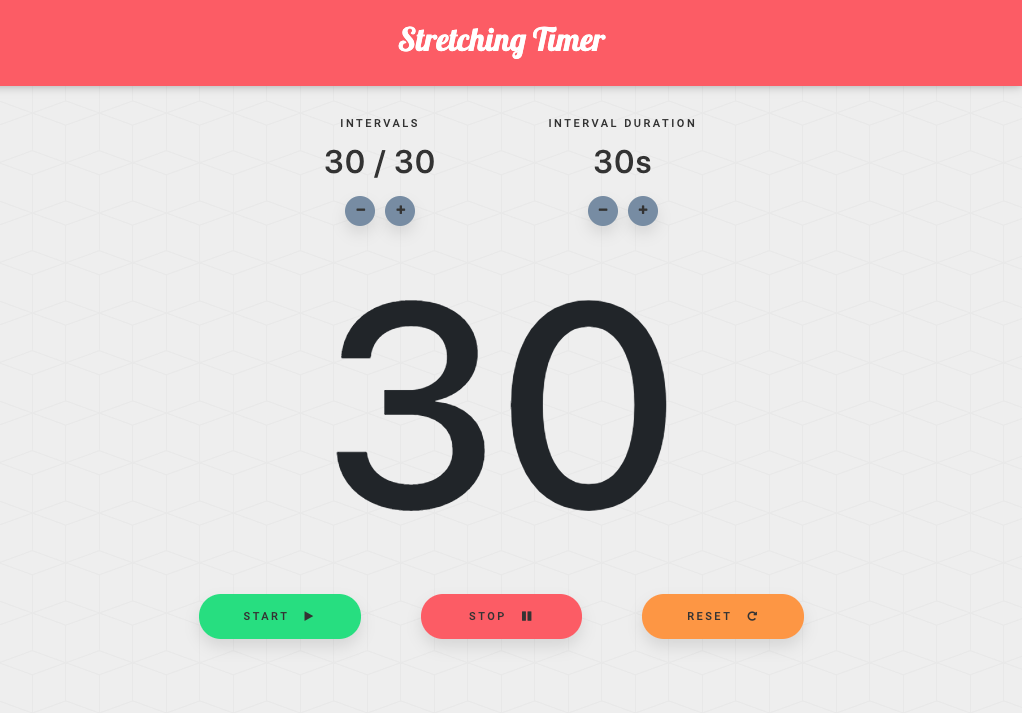
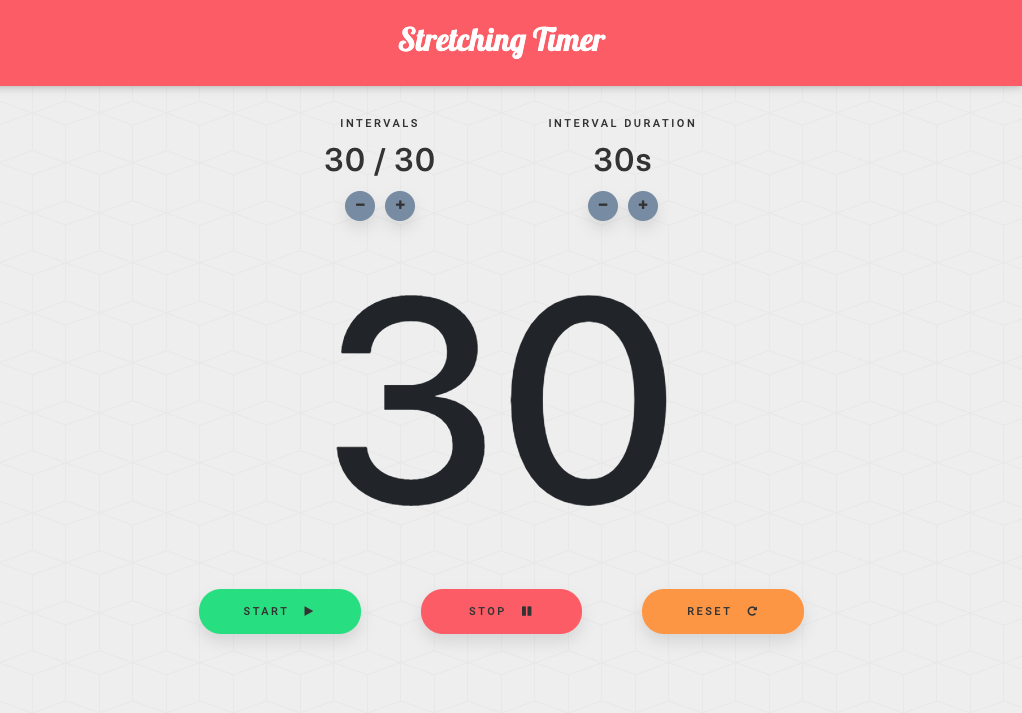
change intervals title

diff --git a/public/styles.css b/public/styles.css
@@ -83,7 +83,7 @@ button:hover {
   height: 30px;
   border-radius: 100px;
   text-align: center;
-  margin: 8px 5px 0px 5px;
+  margin: 5px 5px 0px 5px;
   background-color: #778ca3;
   color: #d1d8e0 !important;
 }
@@ -112,5 +112,5 @@ button:hover {
   color: #333;
   text-align: center;
   margin-top: 30px;
-  margin-bottom: 10px;
+  margin-bottom: 8px;
 }

diff --git a/src/components/App.jsx b/src/components/App.jsx
@@ -94,7 +94,7 @@ function App() {
 
       <div className="row">
         <div className="col-md-3 offset-md-3">
-          <p id="intervalsTitle"> Intervals </p>
+          <p id="intervalsTitle"> Intervals Left </p>
           <h2 id="intervalsLeft">
             {remainingIntervals}{" "}
             / {totalIntervals}
